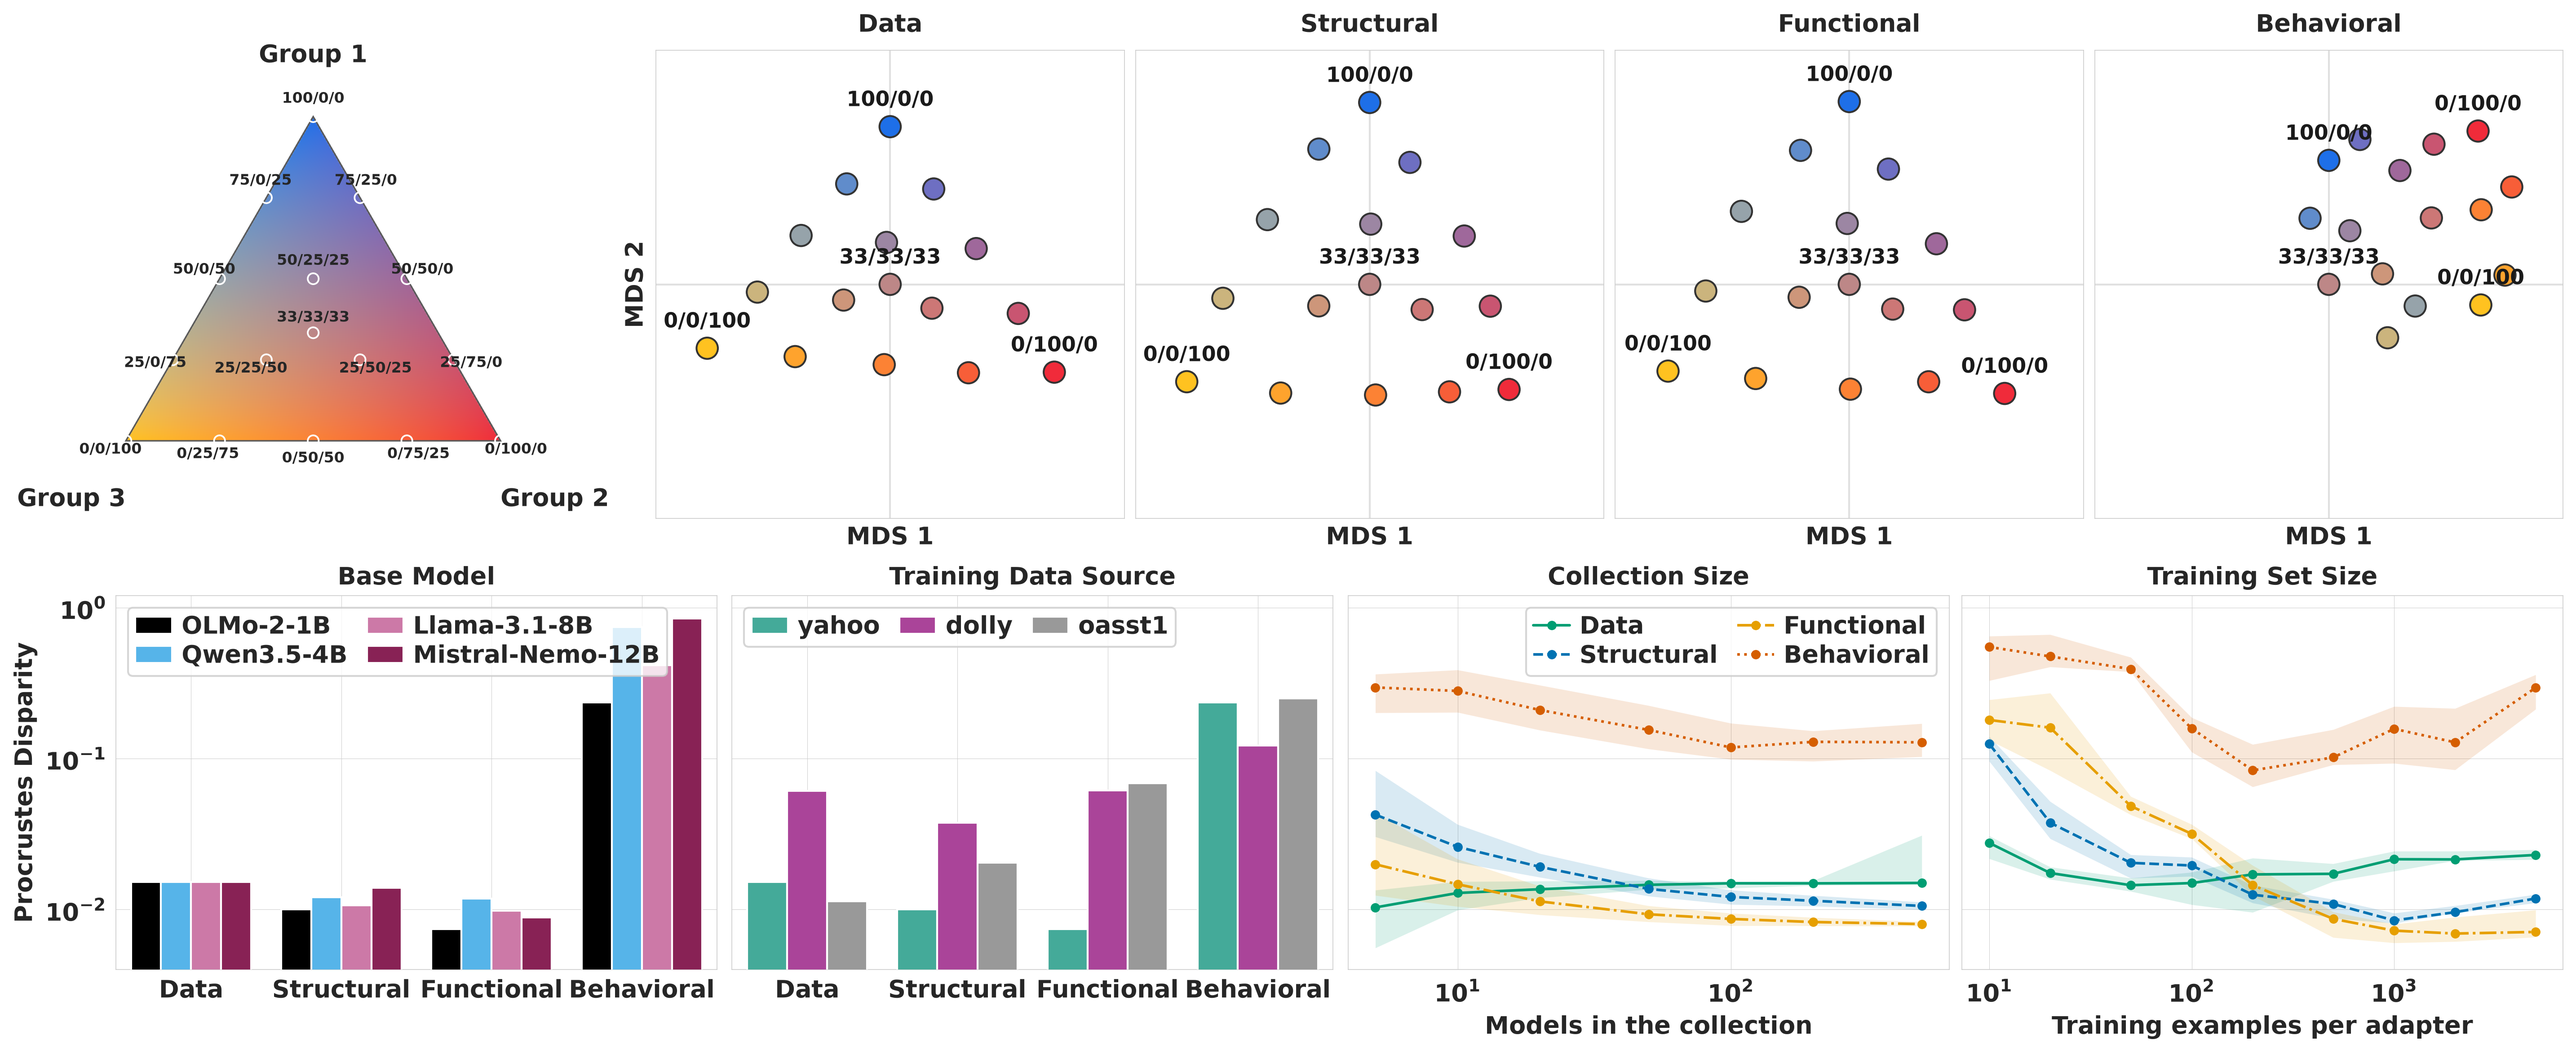
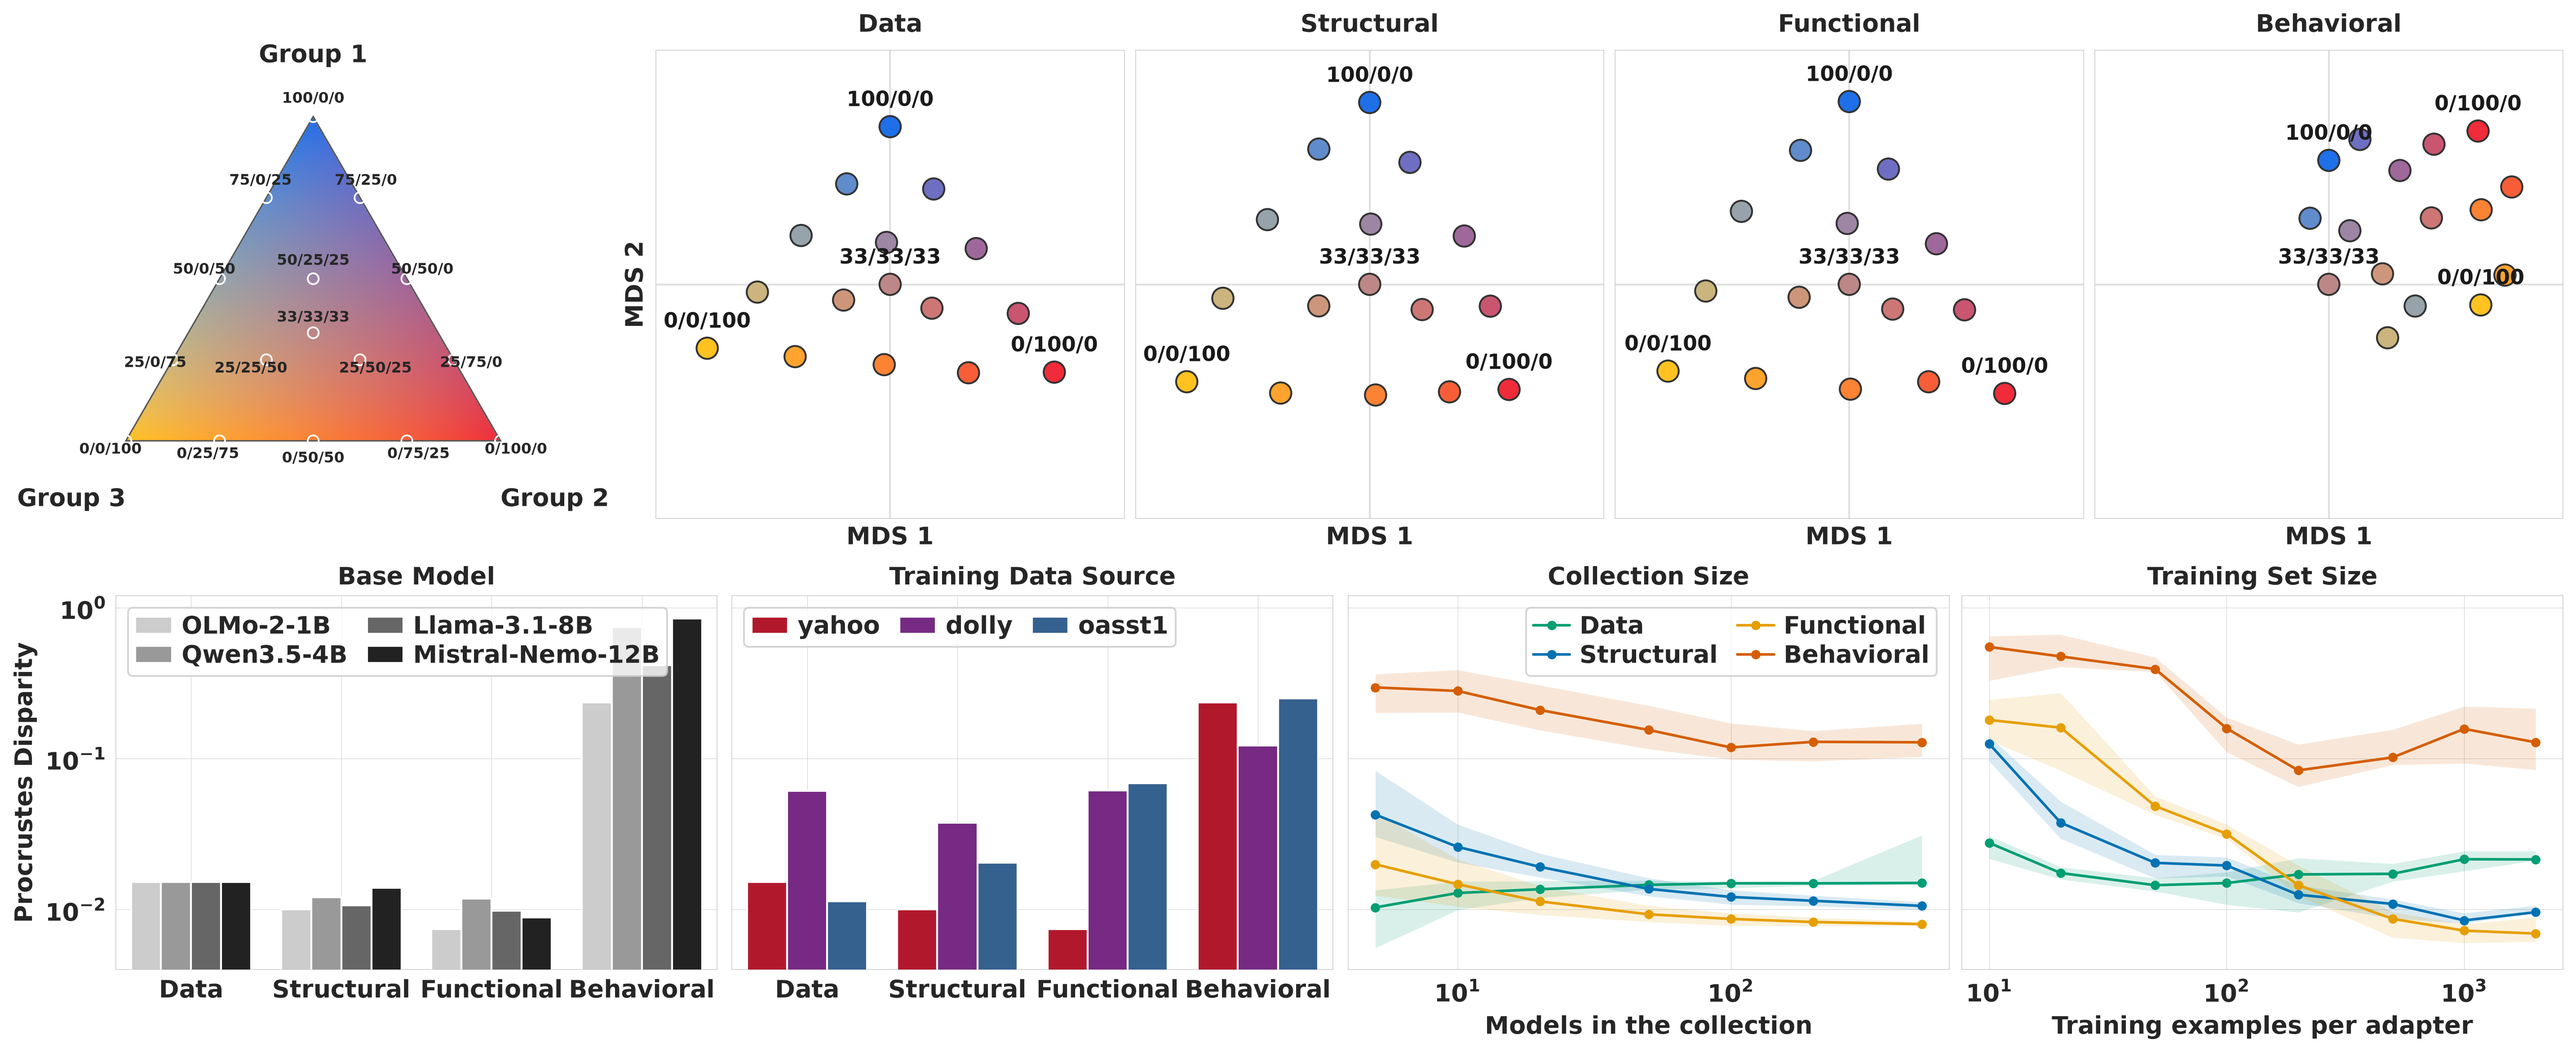
style(figure2): grey model ramp, warm corpus trio, solid sweep lines
Four changes to the bottom row:

- The training-set-size panel stops at 2000. The nsweep ran one value past
  it; the cap lives in SWEEPS rather than in the CSV, so that sweep's own
  figure still draws 5000.
- One solid line style for every level in panels 3-4. Hue already separates
  the curves and they sit far enough apart vertically that a dash pattern
  per level was texture without information.
- Base models move to a grey ramp ordered by parameter count: lightness
  carries the ordering, and every saturated colour is left to the taxonomy
  levels. Corpora move to brick/plum/slate -- three hues of equal weight,
  since the corpora are not ordered.
- More air between the rows (constrained-layout hspace 0.02 -> 0.09); they
  read as two separate statements.

Claude-Session: https://claude.ai/code/session_013wT22QHA98vYoz6C7ZiiGN

diff --git a/figures/figure2/make_figures.py b/figures/figure2/make_figures.py
@@ -193,22 +193,28 @@ LEVEL_COLORS = {
 #: Base model -> colour, in ascending parameter count. Size is the one axis
 #: these four can be put on that is not arbitrary, so panel 1's bars can be read
 #: left to right within a group.
+#:
+#: A grey ramp rather than four hues: lightness carries the ordering, which no
+#: reader loses to colour vision, and it leaves every saturated colour in the
+#: figure to the taxonomy levels, which are what the figure is about.
 MODEL_COLORS = {
-    "allenai/OLMo-2-0425-1B-Instruct":      "#000000",
-    "Qwen/Qwen3.5-4B":                      "#56B4E9",
-    "meta-llama/Llama-3.1-8B-Instruct":     "#CC79A7",
-    "mistralai/Mistral-Nemo-Instruct-2407": "#882255",
+    "allenai/OLMo-2-0425-1B-Instruct":      "#CCCCCC",
+    "Qwen/Qwen3.5-4B":                      "#999999",
+    "meta-llama/Llama-3.1-8B-Instruct":     "#666666",
+    "mistralai/Mistral-Nemo-Instruct-2407": "#222222",
 }
 
 #: Corpus -> colour, in order of increasing distance from a topic mixture:
 #: yahoo mixes topics, dolly mixes instruction tasks, oasst1 mixes languages.
-CORPUS_COLORS = {"yahoo": "#44AA99", "dolly": "#AA4499", "oasst1": "#999999"}
+#: Three saturated hues of equal weight -- the corpora are not ordered, so
+#: nothing here is a ramp -- dark enough to sit beside panel 1's grey bars
+#: without either panel looking like the other's annotation.
+CORPUS_COLORS = {"yahoo": "#B2182B", "dolly": "#762A83", "oasst1": "#35618F"}
 
-#: One dash pattern per level, so the four curves in panels 3-4 survive a
-#: greyscale print and a reader who cannot separate the hues. It travels with
-#: the level, not with its position.
-LEVEL_DASHES = {"Data": "-", "Structural": "--",
-                "Functional": "-.", "Behavioral": ":"}
+#: One line style for every level in panels 3-4. Hue alone separates the four
+#: curves; they are far enough apart vertically that a dash pattern per level
+#: added texture without adding information.
+SWEEP_LINESTYLE = "-"
 
 #: The marker is the same for every level. It marks where a point was measured
 #: — the seven collection sizes, the nine draw sizes — which is a property of
@@ -476,24 +482,32 @@ def draw_corpora_bars(ax, levels: list[Level]) -> None:
 #: docstring for why. The title names what the panel varies and the axis label
 #: names the unit it varies it in, which is why both are carried and neither is
 #: derived from the other.
+#: ``(csv, x column, y column, title, x label, x cap)``. The cap drops the
+#: sweep's largest draw sizes from the panel; ``None`` keeps every x in the
+#: file. The nsweep ran one value past 2000 -- 5000 -- and it is cut here
+#: rather than in the CSV, so the sweep's own figure keeps it.
 SWEEPS = {
     "collection": (FIGURES_ROOT / "simplex_collection_size" / "group_size_scores.csv",
                    "n", "disparity_B", "Collection Size",
-                   "Models in the collection"),
+                   "Models in the collection", None),
     "nsweep": (FIGURES_ROOT / "simplex3_nsweep_olmo2_nsweep" / "nsweep_scores.csv",
                "n_samples", "disparity_requested", "Training Set Size",
-               "Training examples per adapter"),
+               "Training examples per adapter", 2_000),
 }
 
 
-def sweep_series(path: Path, xcol: str, ycol: str, sweep_key: str):
+def sweep_series(path: Path, xcol: str, ycol: str, sweep_key: str,
+                 xmax: int | None = None):
     """``(xs, median, q1, q3)`` over the replicates at each x, for one level."""
     by_x: dict[int, list[float]] = {}
     with open(path, newline="") as fh:
         for row in csv.DictReader(fh):
             if row["perspective"] != sweep_key:
                 continue
-            by_x.setdefault(int(row[xcol]), []).append(float(row[ycol]))
+            x = int(row[xcol])
+            if xmax is not None and x > xmax:
+                continue
+            by_x.setdefault(x, []).append(float(row[ycol]))
     if not by_x:
         raise SystemExit(f"{path.name} has no rows for perspective {sweep_key!r}")
     xs = np.array(sorted(by_x))
@@ -506,11 +520,11 @@ def sweep_series(path: Path, xcol: str, ycol: str, sweep_key: str):
 
 def draw_sweep(ax, which: str, levels: list[Level], legend: bool) -> None:
     """Panels 3 and 4 — all four levels on one axes, median plus IQR band."""
-    path, xcol, ycol, title, xlabel = SWEEPS[which]
+    path, xcol, ycol, title, xlabel, xmax = SWEEPS[which]
     for lv in levels:
-        xs, med, q1, q3 = sweep_series(path, xcol, ycol, lv.sweep_key)
+        xs, med, q1, q3 = sweep_series(path, xcol, ycol, lv.sweep_key, xmax)
         ax.fill_between(xs, q1, q3, color=lv.color, alpha=0.15, lw=0, zorder=2)
-        ax.plot(xs, med, color=lv.color, ls=LEVEL_DASHES[lv.label],
+        ax.plot(xs, med, color=lv.color, ls=SWEEP_LINESTYLE,
                 marker=SWEEP_MARKER, ms=4, lw=1.4, label=lv.label, zorder=3)
     ax.set_xscale("log")
     ax.set_title(title)
@@ -660,6 +674,10 @@ def build(row: str, decoding: str, yscale: str = "log",
     width = 19.0
     height = (top_h if want_top else 0) + (bottom_h if want_bottom else 0)
     fig = plt.figure(figsize=(width, height), layout="constrained")
+    #: The two rows read as separate statements -- one figure repeated at four
+    #: levels, then four ways that figure moves -- so they are given more air
+    #: between them than the default 0.02 leaves.
+    fig.get_layout_engine().set(hspace=0.09)
     outer = fig.add_gridspec(
         sum([want_top, want_bottom]), 1,
         height_ratios=[h for h, want in [(top_h, want_top), (bottom_h, want_bottom)]
